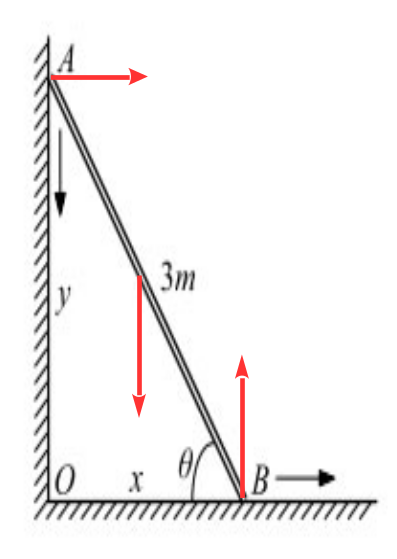
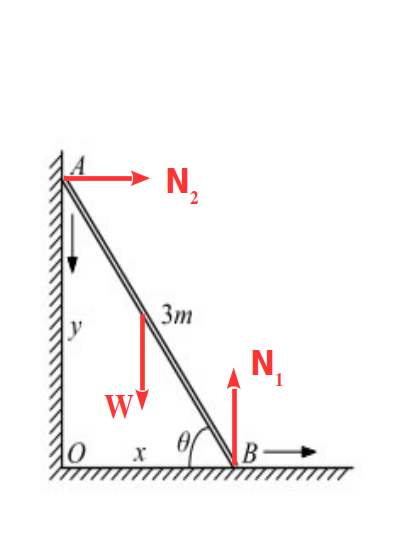
diorthoseis

Changed region(s): [[0.0605, 0.0608, 0.9673, 0.9428], [0.4232, 0.3041, 0.5139, 0.3649], [0.6952, 0.6691, 0.7254, 0.6995]]

diff --git a/_posts/2011-07-18-skala-organismou-mathimatika.md b/_posts/2011-07-18-skala-organismou-mathimatika.md
@@ -62,6 +62,70 @@ $$\frac{dy(t_o)}{dt} = - \frac{\sqrt{2.75}}{25} \frac{m}{s}$$
 
 ![σχήμα]({{ site.url }}/assets/math03.png) 
 
+Εάν η ράβδος είναι το σύστημά μας, τότε το περιβάλλον αποτελούν η γη, ο οριζόντιος και ο κατακόρυφος τοίχος. Οι δυνάμεις που ασκούνται έτσι στη ράβδο είναι το βάρος της που ασκείται στο κέντρο μάζας της, η κάθετη αντίδραση $$Ν_1$$ που ασκείται από τον οριζόντιο τοίχο στο άκρο $$Β$$ και η κάθετη αντίδραση $$Ν_2$$ που ασκείται από τον κατακόρυφο τοίχο στο άκρο $$Α$$. (Θεωρούμε ότι δεν υπάρχει τριβή μεταξύ της ράβδου και των τοίχων).
 
-$$α_{cm} = 5 \cdot \sqrt{2.75} \frac{m}{s^2}$$
+Εφαρμόζουμε τον δεύτερο νόμο του Νεύτωνα για τον άξονα $$x$$
 
+$$ΣF_x = m \cdot α_{xcm} \Rightarrow N_2 = m \cdot α_{xcm}$$
+
+και δεύτερος νόμος του Νεύτωνα για τον άξονα $$y$$
+
+$$ΣF_y = m \cdot α_{ycm} \Rightarrow m \cdot g - N_1 = m \cdot α_{ycm}$$
+
+η ράβδος εκτός από την μεταφορική κίνηση εκτελεί και περιστροφική γύρω από άξονα που διέρχεται από το κέντρο μάζας της. Έτσι το αλγεβρικό άθροισμα των ροπών ως προς άξονα που διέρχεται από το κέντρο μάζας της ράβδου είναι
+
+$$Στ = Ι \cdot α_{γων} \Rightarrow τ_{Ν_1} - τ_{Ν_2} = \frac{1}{12} \cdot m \cdot L^2 \cdot α_{γων} \Rightarrow N_1 \cdot \frac{L}{2} \cdot συνθ - Ν_2 \cdot \frac{L}{2} \cdot ημθ = \frac{1}{12} \cdot m \cdot L^2 \cdot α_{γων}$$
+
+μέχρι στιγμής έχουμε τρεις εξισώσεις με πέντε αγνώστους τους $$Ν_1, Ν_2, α_{γων}, α_{xcm}, α_{ycm}$$. Και η μάζα είναι άγνωστη αλλά στη συνέχεια θα απλοποιηθεί. Οι δύο εξισώσεις που απομένει να γράψουμε για να φτάσουμε σε ένα σύστημα πέντε εξισώσεων με πέντε αγνώστους, προέρχονται από τις κινήσεις που εκτελούν τα άκρα $$Α$$ και $$Β$$ της ράβδου. Το άκρο $$Α$$ όπως και όλη η ράβδος κάνει σύνθετη κίνηση και μεταφορική και περιστροφική. Έτσι εκτός των επιταχύνσεων $$α_{xcm}$$ και $$α_{ycm} που αφορούν τη μεταφορική κίνηση έχει και την επιτάχυνση $$α_{επιτ}$$ που αφορά την περιστροφική κίνηση γύρω από το κέντρο μάζας της ράβδου. Στο επόμενο σχήμα έχουμε αναλύσει αυτή την επιτάχυνση στους άξονες $$x$$ και $$y$$ (μπλε διανύσματα), ενώ φαίνονται και τα διανύσματα $$α_{xcm}$$ και $$α_{ycm} (κόκκινα διανύσματα).
+
+![σχήμα]({{ site.url }}/assets/math04.png) 
+
+$$α_{επιτ} = α_{γων} \cdot \frac{L}{2}$$
+
+Έστω $$α_{xεπιτ}$$ η οριζόντια συνιστώσα της επιτρόχιας επιτάχυνσης για την οποία ισχύει:
+
+$$α_{xεπιτ} = α_{επιτ} \cdot ημθ \Rightarrow α_{xεπιτ} = α_{γων} \cdot \frac{L}{2} \cdot ημθ$$
+
+Επειδή η κίνηση του άκρου $$Α$$ είναι επιταχυνόμενη κατακόρυφη κίνηση βγάζουμε το συμπέρασμα ότι η συνολική οριζόντια επιτάχυνση θα πρέπει να είναι μηδέν, δηλαδή:
+
+$$α_{γων} \cdot \frac{L}{2} \cdot ημθ = α_{xcm}$$
+
+Ανάλογα ισχύουν και για την κίνηση του άκρου $$Β$$ της ράβδου, μόνο που λόγω της επιταχυνόμενης οριζόντιας κίνησής του βγάζουμε το συμπέρασμα ότι η συνολική κατακόρυφη επιτάχυνση θα πρέπει να είναι μηδέν, δηλαδή:
+
+$$α_{γων} \cdot \frac{L}{2} \cdot συνθ = α_{ycm}$$
+
+Έτσι έχουμε να λύσουμε το παρακάτω σύστημα πέντε εξισώσεων με πέντε αγνώστους
+
+$$N_2 = m \cdot α_{xcm}$$
+
+$$m \cdot g - N_1 = m \cdot α_{ycm}$$
+
+$$N_1 \cdot \frac{L}{2} \cdot συνθ - Ν_2 \cdot \frac{L}{2} \cdot ημθ = \frac{1}{12} \cdot m \cdot L^2 \cdot α_{γων}$$
+
+$$α_{γων} \cdot \frac{L}{2} \cdot ημθ = α_{xcm}$$
+
+$$α_{γων} \cdot \frac{L}{2} \cdot συνθ = α_{ycm}$$
+
+όπου $$L = 3m$$, $$ημθ = \frac{2.5}{3}$$ και $$συνθ = \frac{sqrt{2.75}}{3}$$
+
+Θα λύσουμε τις πρώτες δύο εξισώσεις ως προς $$Ν_1$$ και $$Ν_2$$
+
+$$Ν_1 = m \cdot g - m \cdot α_{ycm}$$
+
+$$N_2 = m \cdot α_{xcm}$$
+
+και αντικαθιστώντας στην 3η τα $$Ν_1, Ν_2, α_{ycm}, α_{xcm}$$ ο μόνος άγνωστος είναι η $$α_{γων}$$.
+
+και κάνοντας αρκετές πράξεις, αφού χρησιμοποιήσουμε και την ταυτότητα $$ημ^2θ+συν^2θ = 1$$ έχουμε:
+
+$$α_{γων} = \frac{5}{3} \cdot \sqrt{2.75} \frac{rad}{s^2}$$
+
+οπότε εύκολα υπολογίζουμε τις $$α_{xcm}$$ και $$α_{ycm}$$
+
+$$α_{xcm} = \frac{12.5 \sqrt{2.75}}{6} \frac{m}{s^2}$$
+
+$$α_{ycm} = \frac{12.5 \sqrt{13.75}{6} \frac{m}{s^2}$$
+
+και 
+
+$$α_{cm} = \sqrt{α_{xcm}^2 + α_{ycm}^2} \Rightarrow α_{cm} = 2.5 \cdot \sqrt{2.75} \frac{m}{s^2}$$
